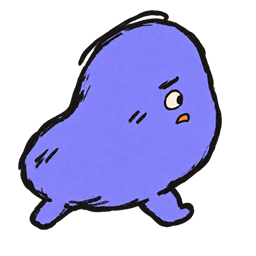
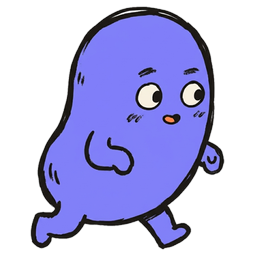
fix: upright Runner skin and readable Scuttler presentation (R3B)

Changed region(s): [[0.0625, 0.0, 0.875, 0.9688], [0.3125, 0.5, 0.5312, 0.6875]]

diff --git a/src/game/entities/Enemy.ts b/src/game/entities/Enemy.ts
@@ -26,6 +26,9 @@ import {
 } from '../systems/dangerousEffectContracts';
 import { getEnemySpriteAssetSlot, shouldUseVisualAsset } from '../utils/assetResolver';
 
+/** Decorative-only footprint (game units) for the upright Scuttler sprite. */
+const SCUTTLER_VISUAL_SIZE = 36;
+
 export type EnemyBehaviorState =
   | 'chasing'
   | 'intercepting'
@@ -127,6 +130,7 @@ export class Enemy extends Phaser.GameObjects.Rectangle {
   }> = [];
   private spriteOverlay: Phaser.GameObjects.Image | null = null;
   private spriteOverlayActive = false;
+  private spriteFacesLeft = false;
 
   constructor(scene: Phaser.Scene, x: number, y: number, archetype: EnemyArchetype) {
     super(scene, x, y, archetype.size, archetype.size, archetype.color);
@@ -1040,11 +1044,23 @@ export class Enemy extends Phaser.GameObjects.Rectangle {
       return;
     }
 
+    const upright = this.archetype.id === 'scuttler' && category === 'enemySprites';
+    if (upright) {
+      // Scuttler keeps its face readable: no spinning, only mirror toward horizontal travel.
+      const vx = this.body.velocity.x;
+      if (vx < -8) {
+        this.spriteFacesLeft = true;
+      } else if (vx > 8) {
+        this.spriteFacesLeft = false;
+      }
+    }
+    const displaySize = upright ? SCUTTLER_VISUAL_SIZE : this.archetype.size * 1.24;
     this.spriteOverlay
       .setTexture(slot.key)
       .setPosition(this.x, this.y)
-      .setAngle(this.angle - 90)
-      .setDisplaySize(this.archetype.size * 1.24 * this.scaleX, this.archetype.size * 1.24 * this.scaleY)
+      .setAngle(upright ? 0 : this.angle - 90)
+      .setFlipX(upright && this.spriteFacesLeft)
+      .setDisplaySize(displaySize * this.scaleX, displaySize * this.scaleY)
       .setDepth(this.depth + 0.35)
       .setAlpha(this.alpha)
       .setVisible(this.visible && this.active);

diff --git a/src/game/entities/Player.ts b/src/game/entities/Player.ts
@@ -27,6 +27,7 @@ export class Player extends Phaser.GameObjects.Rectangle {
   private skinOverlay: Phaser.GameObjects.Image | null = null;
   private skinOverlayActive = false;
   private skinOverlayKey: string | null = null;
+  private skinFacesLeft = false;
   private readonly baseBarrelWidth: number;
   private readonly baseBarrelHeight: number;
   private readonly visualSize: number;
@@ -419,6 +420,11 @@ export class Player extends Phaser.GameObjects.Rectangle {
     }
 
     this.skinOverlayActive = shouldUseVisualAsset(this.scene, 'heroSkins', this.skinOverlayKey);
+    if (this.facingDirection.x < -0.15) {
+      this.skinFacesLeft = true;
+    } else if (this.facingDirection.x > 0.15) {
+      this.skinFacesLeft = false;
+    }
     // Hide only the fallback drawing, keeping its Arcade body and gameplay state intact.
     this.isFilled = !this.skinOverlayActive;
     this.isStroked = !this.skinOverlayActive;
@@ -435,8 +441,10 @@ export class Player extends Phaser.GameObjects.Rectangle {
     this.skinOverlay
       .setTexture(this.skinOverlayKey)
       .setPosition(this.x, this.y)
-      .setAngle(Phaser.Math.RadToDeg(this.facingDirection.angle()))
-      .setDisplaySize(this.visualSize * 1.35 * this.scaleX, this.visualSize * 1.35 * this.scaleY)
+      // Decorative art stays upright; only mirror it toward the horizontal aim side.
+      .setAngle(0)
+      .setFlipX(this.skinFacesLeft)
+      .setDisplaySize(this.visualSize * 1.4 * this.scaleX, this.visualSize * 1.4 * this.scaleY)
       .setDepth(this.depth + 0.35)
       .setAlpha(this.alpha)
       .setVisible(this.visible && this.active);
